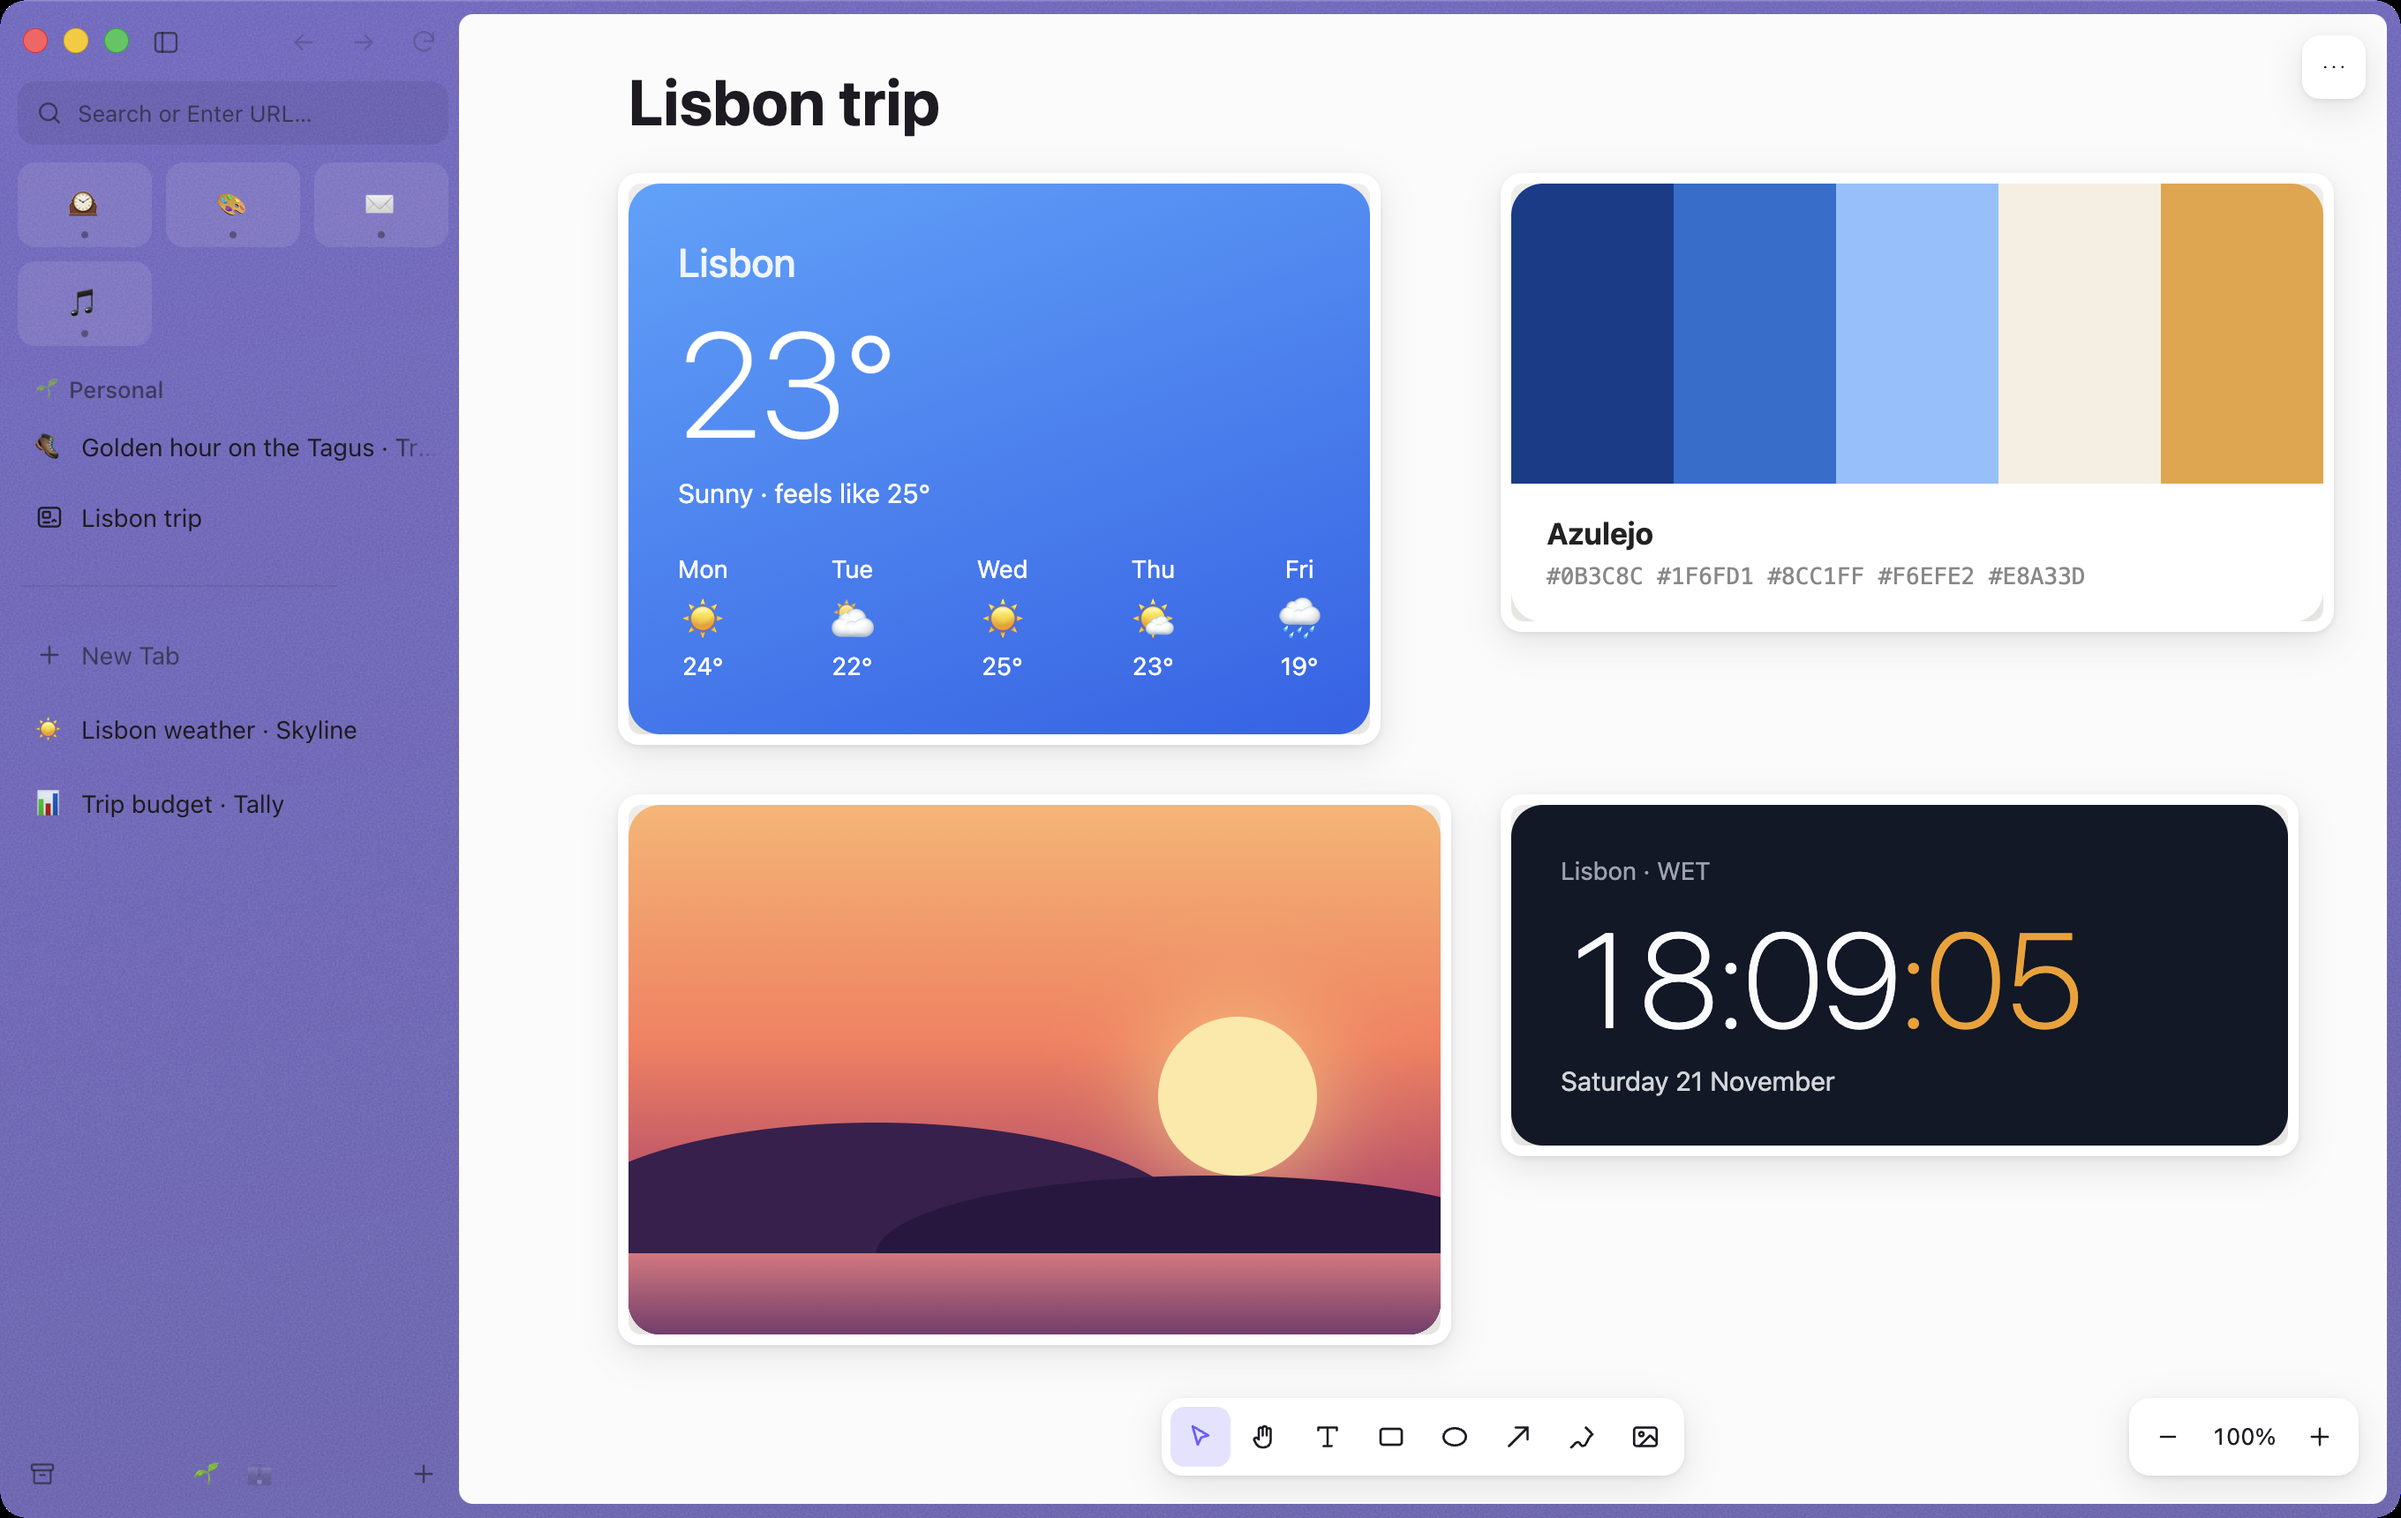
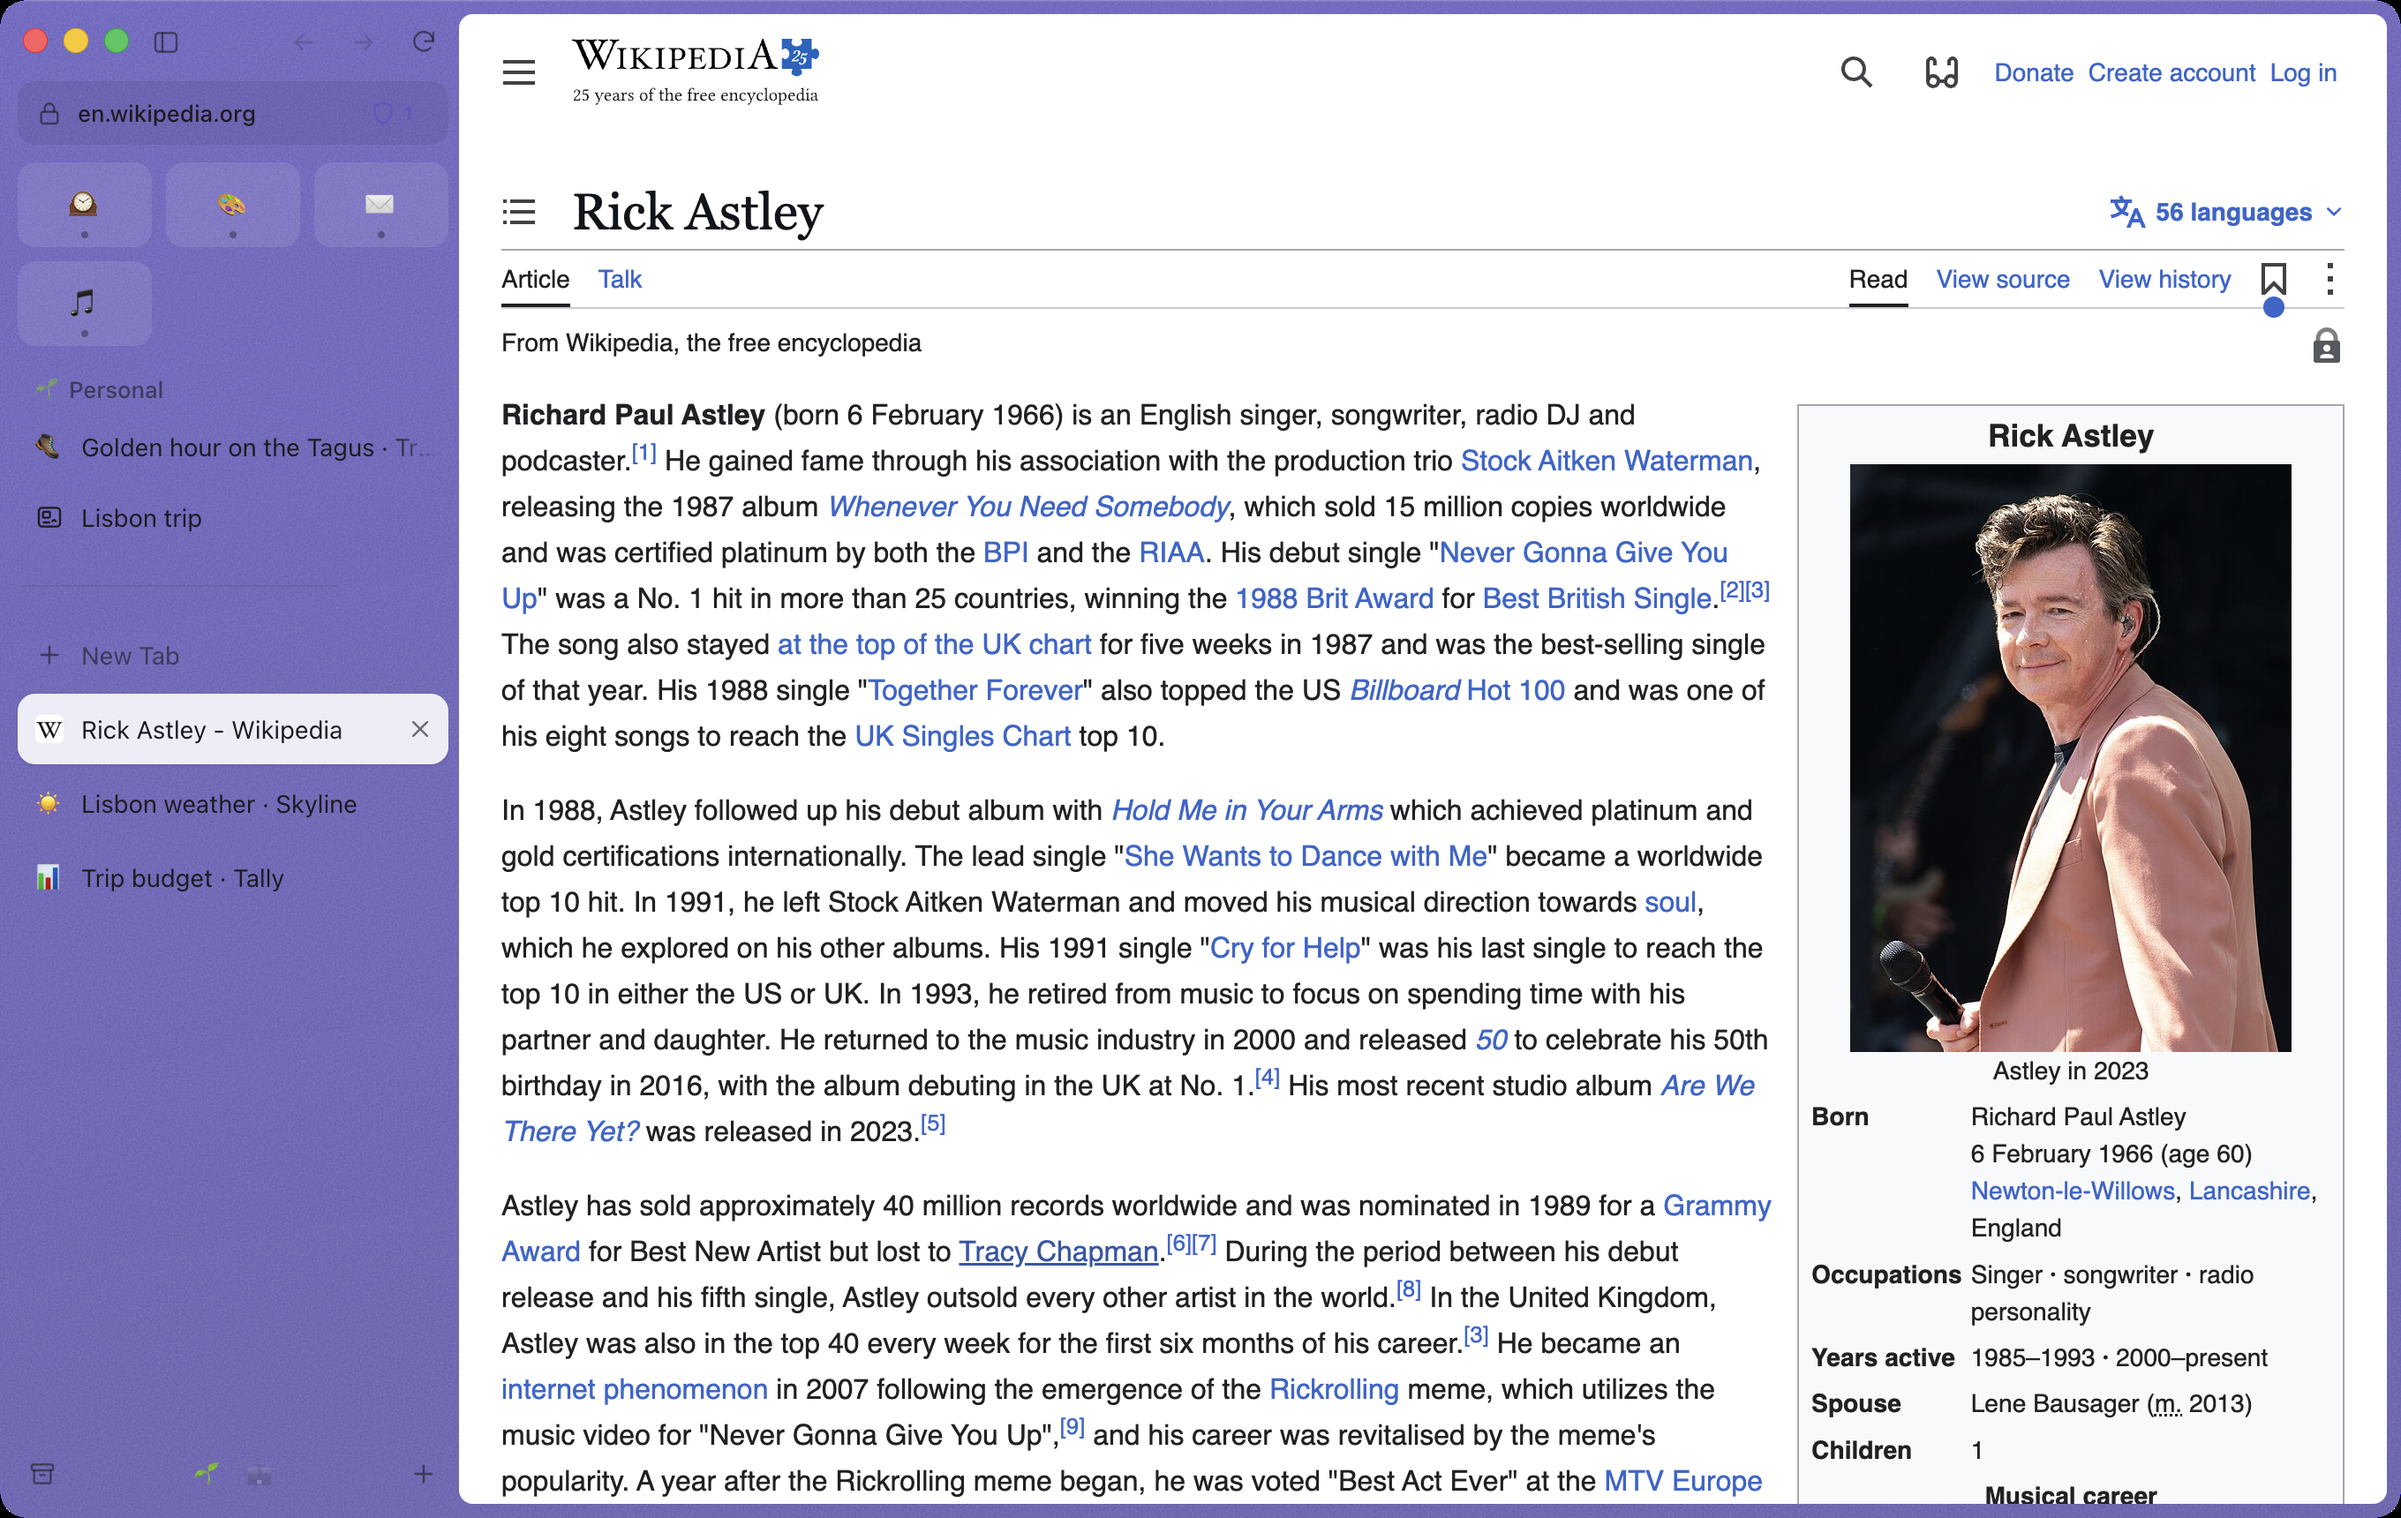
Open the README with a real page next to the sidebar

diff --git a/README.md b/README.md
@@ -9,7 +9,7 @@ Arc shuts down on 22 December 2026. YARC keeps the sidebar, Spaces, the command 
 macOS · Windows · Linux (experimental)<br>
 <sub>An independent project, not affiliated with The Browser Company.</sub></p>
 
-![YARC: the sidebar with favorites and tabs, next to a canvas of cards captured from web pages](docs/screenshots/sidebar.png)
+![YARC: the sidebar with favorites, a pinned tab, a canvas and Today tabs, next to a Wikipedia page](docs/screenshots/sidebar.png)
 
 ## Contents
 
